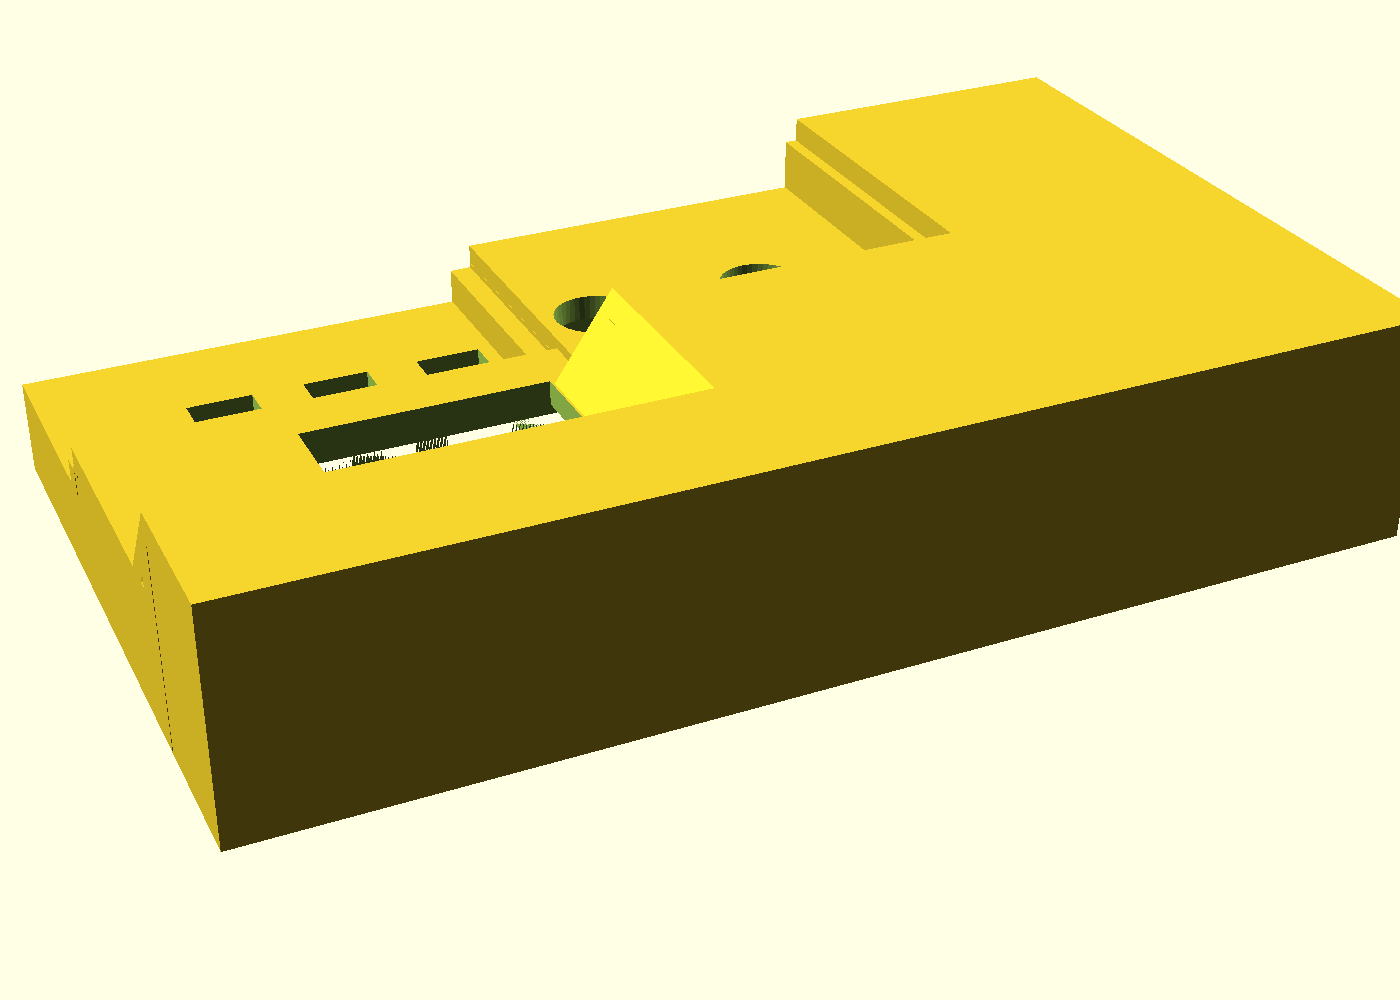
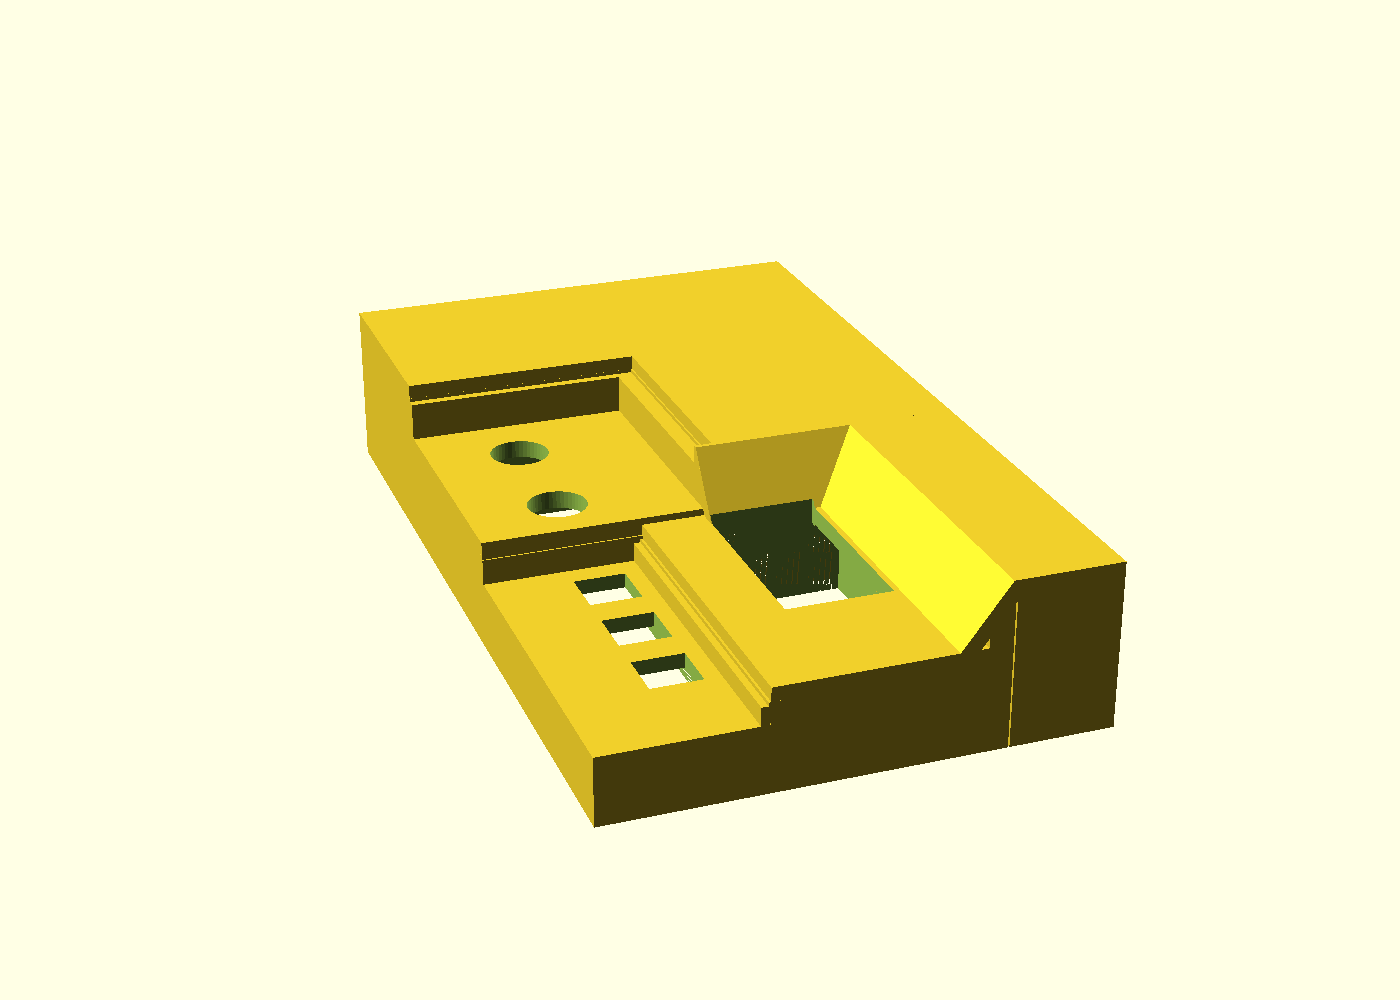
led_frame: sync README with scad, re-render previews

diff --git a/led_frame/README.md b/led_frame/README.md
@@ -10,27 +10,33 @@ assembled.
   2. **Pots** — underside *rests on* the two square pot bodies; knurled
      shafts pass through 8 mm holes.
   3. **Screen** — low deck floating 0.4 mm above the OLED glass, with a
-     24 × 13 mm window.
+     26.5 × 14.4 mm window (the measured visible area plus 0.5 mm a side).
   4. **Buttons** — deck top flush with the tact switches' **square bodies**
-     (3.6 mm); square cutouts (body + 0.4) wrap each body and the round
-     plungers stand ~2 mm proud for easy pressing. Cutouts are centred on
-     the true plunger positions (the KiCad footprint origin is pin 1 —
-     centres are origin + (3.25, −2.25)).
+     (3.6 mm); square cutouts (body + 0.8) wrap each body and the round
+     plungers stand ~2 mm proud for easy pressing. Body + 0.4 was too
+     tight on the first test print; + 0.8 has not been printed yet.
+     Cutouts are centred on the true plunger positions (the KiCad
+     footprint origin is pin 1 — centres are origin + (3.25, −2.25)).
   - The screen and button decks run **flat to the right edge** — the tall
     frame exists only on the left and across the top band. The
-    bottom-right corner post is short (it stops under the button deck;
-    the 9 mm screw pilot still fits).
-  - The tall-zone drops **left of and above the OLED are angled** (~55–60°
-    sloped panels meeting in a hip at the window's NW corner) instead of
-    vertical cliffs; the slope undersides print support-free. The angle is
+    bottom-right corner post is short (it stops under the button deck, so
+    its pilot is 8.6 mm deep instead of 9; an M2×10 still fits).
+  - The tall-zone drops **left of and above the OLED are angled** (sloped
+    panels, 55° on the left and 52° on top as measured on `top.stl`,
+    meeting in a hip at the window's NW corner) instead of vertical
+    cliffs; the slope undersides print support-free. The angle is
     as shallow as the layout allows: the 10 µF cap (C3) stands under the
     top ramp's path and the left ramp's foot already lands at the window
     rim. `ramp_in` and the hull strips in `top()` are the tuning knobs.
-    Preview PNGs (`preview_*.png`) show the current shape.
-  - Left wall: micro-USB slot (13 × 7 mm) and an 8 mm strip-wire hole.
+    Preview PNGs (`preview_*.png`) show the current shape; the command
+    that renders them is under *Regenerate*.
+  - Left wall: micro-USB slot (13 × 8.5 mm) with a guide tunnel running
+    in to the D1 mini's socket, and a 12 × 7.5 mm slot that the LED
+    strip's JST XH plug passes through.
 - **Bottom** — flat plate, four Ø7 standoffs (4 mm tall, **1.90 mm pilots**)
   under the board's 2.2 mm M2 corner holes. The plate screws **up** into
-  corner posts inside the top (1.90 mm pilots, 9 mm deep).
+  corner posts inside the top (1.90 mm pilots, 9 mm deep; 8.6 in the
+  short bottom-right post).
 
 ## Screws
 
@@ -46,20 +52,23 @@ guide tunnel across the 8 mm post margin (a micro-B nose is ~6 mm and could
 never have reached); pot-tier boundary moved east of the 470 µF's body;
 bottom-left standoff chord-cut clear of J1's pin-1 solder tail.
 
-**Still unknown — the OLED module and glass are NOT in the board file**
-(the footprint holds only the 4-pin header; the module hangs south of it).
-`oled_ctr`/`oled_win` are typical-module estimates until measured.
+**The OLED module and glass are not in the board file** (the footprint
+holds only the 4-pin header; the module hangs south of it), so they were
+**measured** on the part: visible area x 58.40–83.92, y 27.21–40.63
+(board-local), centre (71.16, 33.92); module PCB south edge at y 18.36,
+which sets the button/screen step.
 
 ## VERIFY WITH CALIPERS before printing
 
-Defaults are typical-part values; the `.scad` header groups them:
+Rows marked **measured** came from the real parts; the rest are
+typical-part defaults to check:
 
 | Param | Default | What to measure |
 |---|---|---|
 | `cap_h` | 13.0 | 470 µF body top above board |
 | `pot_body_h` | 7.0 | pot square-body top above board (tier 2 rests here) |
-| `oled_glass_h` | 5.6 | OLED glass top above board |
-| `oled_win` / `oled_win_dy` | 24×13, −1.5 | glass vs module centre |
+| `oled_glass_h` | 5.68 | **measured** — OLED glass top above board |
+| `oled_win` / `oled_win_dy` | 26.5×14.4, 0 | **measured** — visible area + 0.5 a side |
 | `usb_above_board` | 1.25 | **measured** — this module's USB is underside-mounted, shell top 2.6 above the board; slot is 13×8.5 with the guide tunnel running floor-to-top |
 | `standoff_h` | 4.0 | ≥ solder-tail protrusion under the board |
 | `btn_body_h` | 3.6 | switch square-body top above board (deck is flush here) |
@@ -68,17 +77,16 @@ Defaults are typical-part values; the `.scad` header groups them:
 Plunger tops are the measured 5.65 mm, so they stand `5.65 − btn_body_h`
 proud of the deck.
 
-**Measurement list (blocking a final print):**
+**Measurement list (blocking a final print).** The OLED window and module
+edge are already measured (above). Still open — each limit is the lowest
+roof over that part, probed on `top.stl` against the board's footprints:
 
-1. Board bottom edge → OLED **glass** bottom edge, and → glass top edge.
-2. Board left edge → glass left edge, and glass width. (1+2 fix the window
-   and the screen-tier boundaries.)
-3. Board bottom edge → OLED **module PCB** south edge (checks the module
-   against the button-tier step wall).
-4. OLED header **pin tops** above the main board (must be < ~11.3).
-5. **C3** (10 µF) height above board (must be < ~13.5).
-6. **C1** (0.1 µF disc) height above board (must be < 7.0 — it lives under
-   the resting pot tier).
+1. OLED header **pin tops** above the main board: must be < **6.08**. The
+   pins (y = 44.45) sit under the screen deck's underside.
+2. **C3** (10 µF) height above board: must be < **13.45** (the top ramp
+   passes over its south edge).
+3. **C1** (0.1 µF disc) height above board: must be < **7.0** (it lives
+   under the resting pot tier).
 
 ## Printing (0.4 mm nozzle)
 
@@ -93,6 +101,16 @@ proud of the deck.
 ```
 openscad -D 'part="top"'    -o top.stl    led_frame_case.scad
 openscad -D 'part="bottom"' -o bottom.stl led_frame_case.scad
+```
+
+Previews (OpenSCAD preview mode, 1400 × 1000, run from this folder):
+
+```
+for v in "iso 55,0,25 p" "top 0,0,0 o" "east 65,0,70 p" "west 65,0,290 p"; do
+  set -- $v
+  openscad -D 'part="top"' --imgsize=1400,1000 --viewall --autocenter \
+    --projection=$3 --camera=0,0,0,$2,0 -o preview_$1.png led_frame_case.scad
+done
 ```
 
 Debug switches for geometry work: `with_skirts`, `with_posts`, `nsk`
